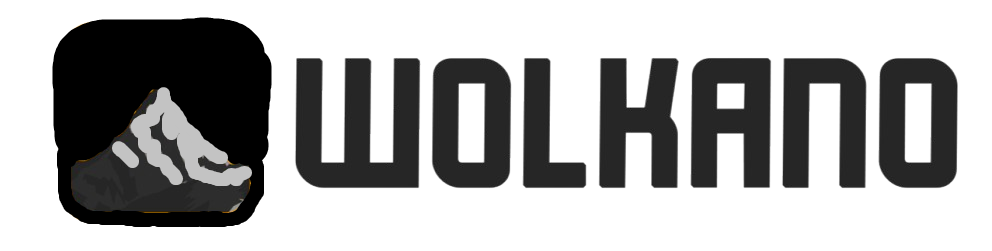
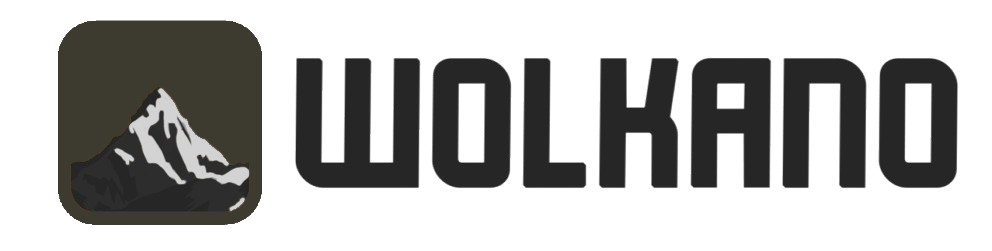
testloggo type shi

Changed region(s): [[0.0312, 0.0558, 0.2812, 0.9203]]

diff --git a/src/components/MainNavbar.vue b/src/components/MainNavbar.vue
@@ -3,7 +3,9 @@
     <div class="first">
       <router-link to="/">
         <img
-          src="../assets/028a399e-aec3-4368-bc6e-2fc7207d884e-removebg-preview.png"
+          :src="currentImg"
+          @mouseover="changeImageOnHover"
+          @mouseout="resetImage"
           class="logo"
       />
     </router-link>
@@ -19,6 +21,20 @@
 </template>
 
 <script setup>
+import { ref } from 'vue';
+
+const originalImg = require('../assets/028a399e-aec3-4368-bc6e-2fc7207d884e-removebg-preview.png');
+const hoverImg = require('../assets/testlogga.png');
+
+const currentImg = ref(originalImg);
+
+function changeImageOnHover() {
+  currentImg.value = hoverImg;
+}
+
+function resetImage() {
+  currentImg.value = originalImg;
+}
 </script>
 
 <style scoped lang="scss">
